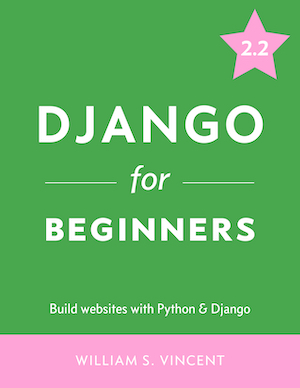
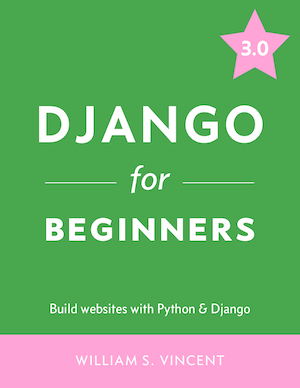
update cover to 3.0

diff --git a/Readme.md b/Readme.md
@@ -4,4 +4,4 @@ The official source code for _Django for Beginners_.
 
 Preview the book at [https://djangoforbeginners.com/](https://djangoforbeginners.com/).
 
-Available as an [ebook (with free updates)](https://gum.co/aFiMm), [Paperback](https://www.amazon.com/dp/1983172669/?tag=wsvincent-20), or [Kindle](https://www.amazon.com/dp/B079ZZLRRL/?tag=wsvincent-20).
+Available as an [ebook](https://gum.co/aFiMm) or in [Paperback](https://www.amazon.com/dp/1983172669/?tag=wsvincent-20).
